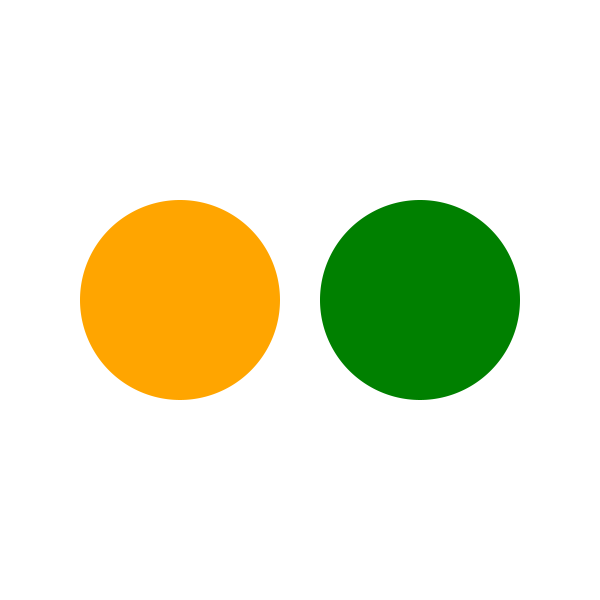
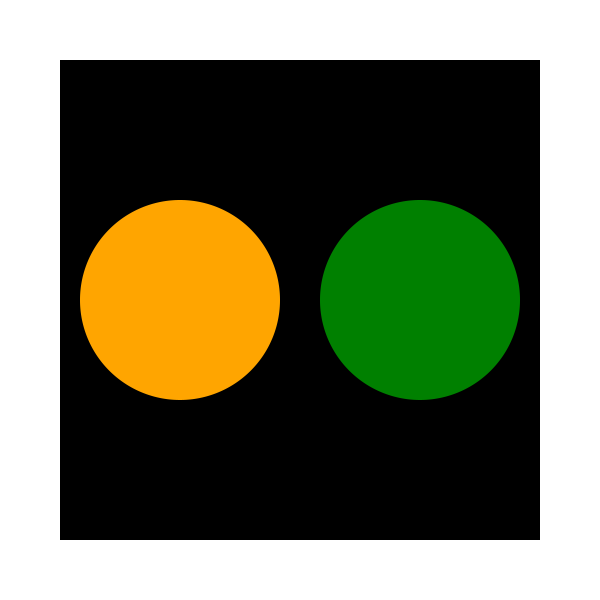
Fix CH-N-Vorsignal-1 outline color and border
- Updated signals.xsd to support borderColor and borderWidth
- Updated ch.xml to set CH-N-Vorsignal-1 outline to black with white border
- Updated webtool/index.html to render signal border
- Updated generate_svgs.py to render signal border in SVG
- Verified with Playwright and XML validation

diff --git a/webtool/index.html b/webtool/index.html
@@ -331,6 +331,8 @@
         function renderSignalSVG(signalNode) {
             const outline = signalNode.getAttribute('outline');
             const outlineColor = signalNode.getAttribute('outlineColor') || '#000000';
+            const borderColor = signalNode.getAttribute('borderColor') || 'none';
+            const borderWidth = signalNode.getAttribute('borderWidth') || '0';
             const lightbulbs = signalNode.getElementsByTagName('lightbulb');
 
             // Calculate ViewBox
@@ -392,7 +394,8 @@
                 const path = document.createElementNS(svgNS, "path");
                 path.setAttribute("d", outline);
                 path.setAttribute("fill", outlineColor);
-                path.setAttribute("stroke", "none");
+                path.setAttribute("stroke", borderColor);
+                path.setAttribute("stroke-width", borderWidth);
                 group.appendChild(path);
             }
 

diff --git a/firmware/scripts/generate_svgs.py b/firmware/scripts/generate_svgs.py
@@ -18,6 +18,8 @@ def generate_svg(xml_file, output_dir):
             filename = signal.get('svg', f"{name}.svg")
             outline = signal.get('outline')
             outline_color = signal.get('outlineColor', '#000000')
+            border_color = signal.get('borderColor', 'none')
+            border_width = signal.get('borderWidth', '0')
 
             bulbs = []
             lightbulbs_el = signal.find('lightbulbs')
@@ -81,7 +83,7 @@ def generate_svg(xml_file, output_dir):
             svg_lines.append(f'  <g transform="scale(1, -1)">')
 
             if outline:
-                svg_lines.append(f'    <path d="{outline}" fill="{outline_color}" stroke="none" />')
+                svg_lines.append(f'    <path d="{outline}" fill="{outline_color}" stroke="{border_color}" stroke-width="{border_width}" />')
 
             for b in bulbs:
                 # Ensure color is valid or mapped if needed. SVG supports names.
